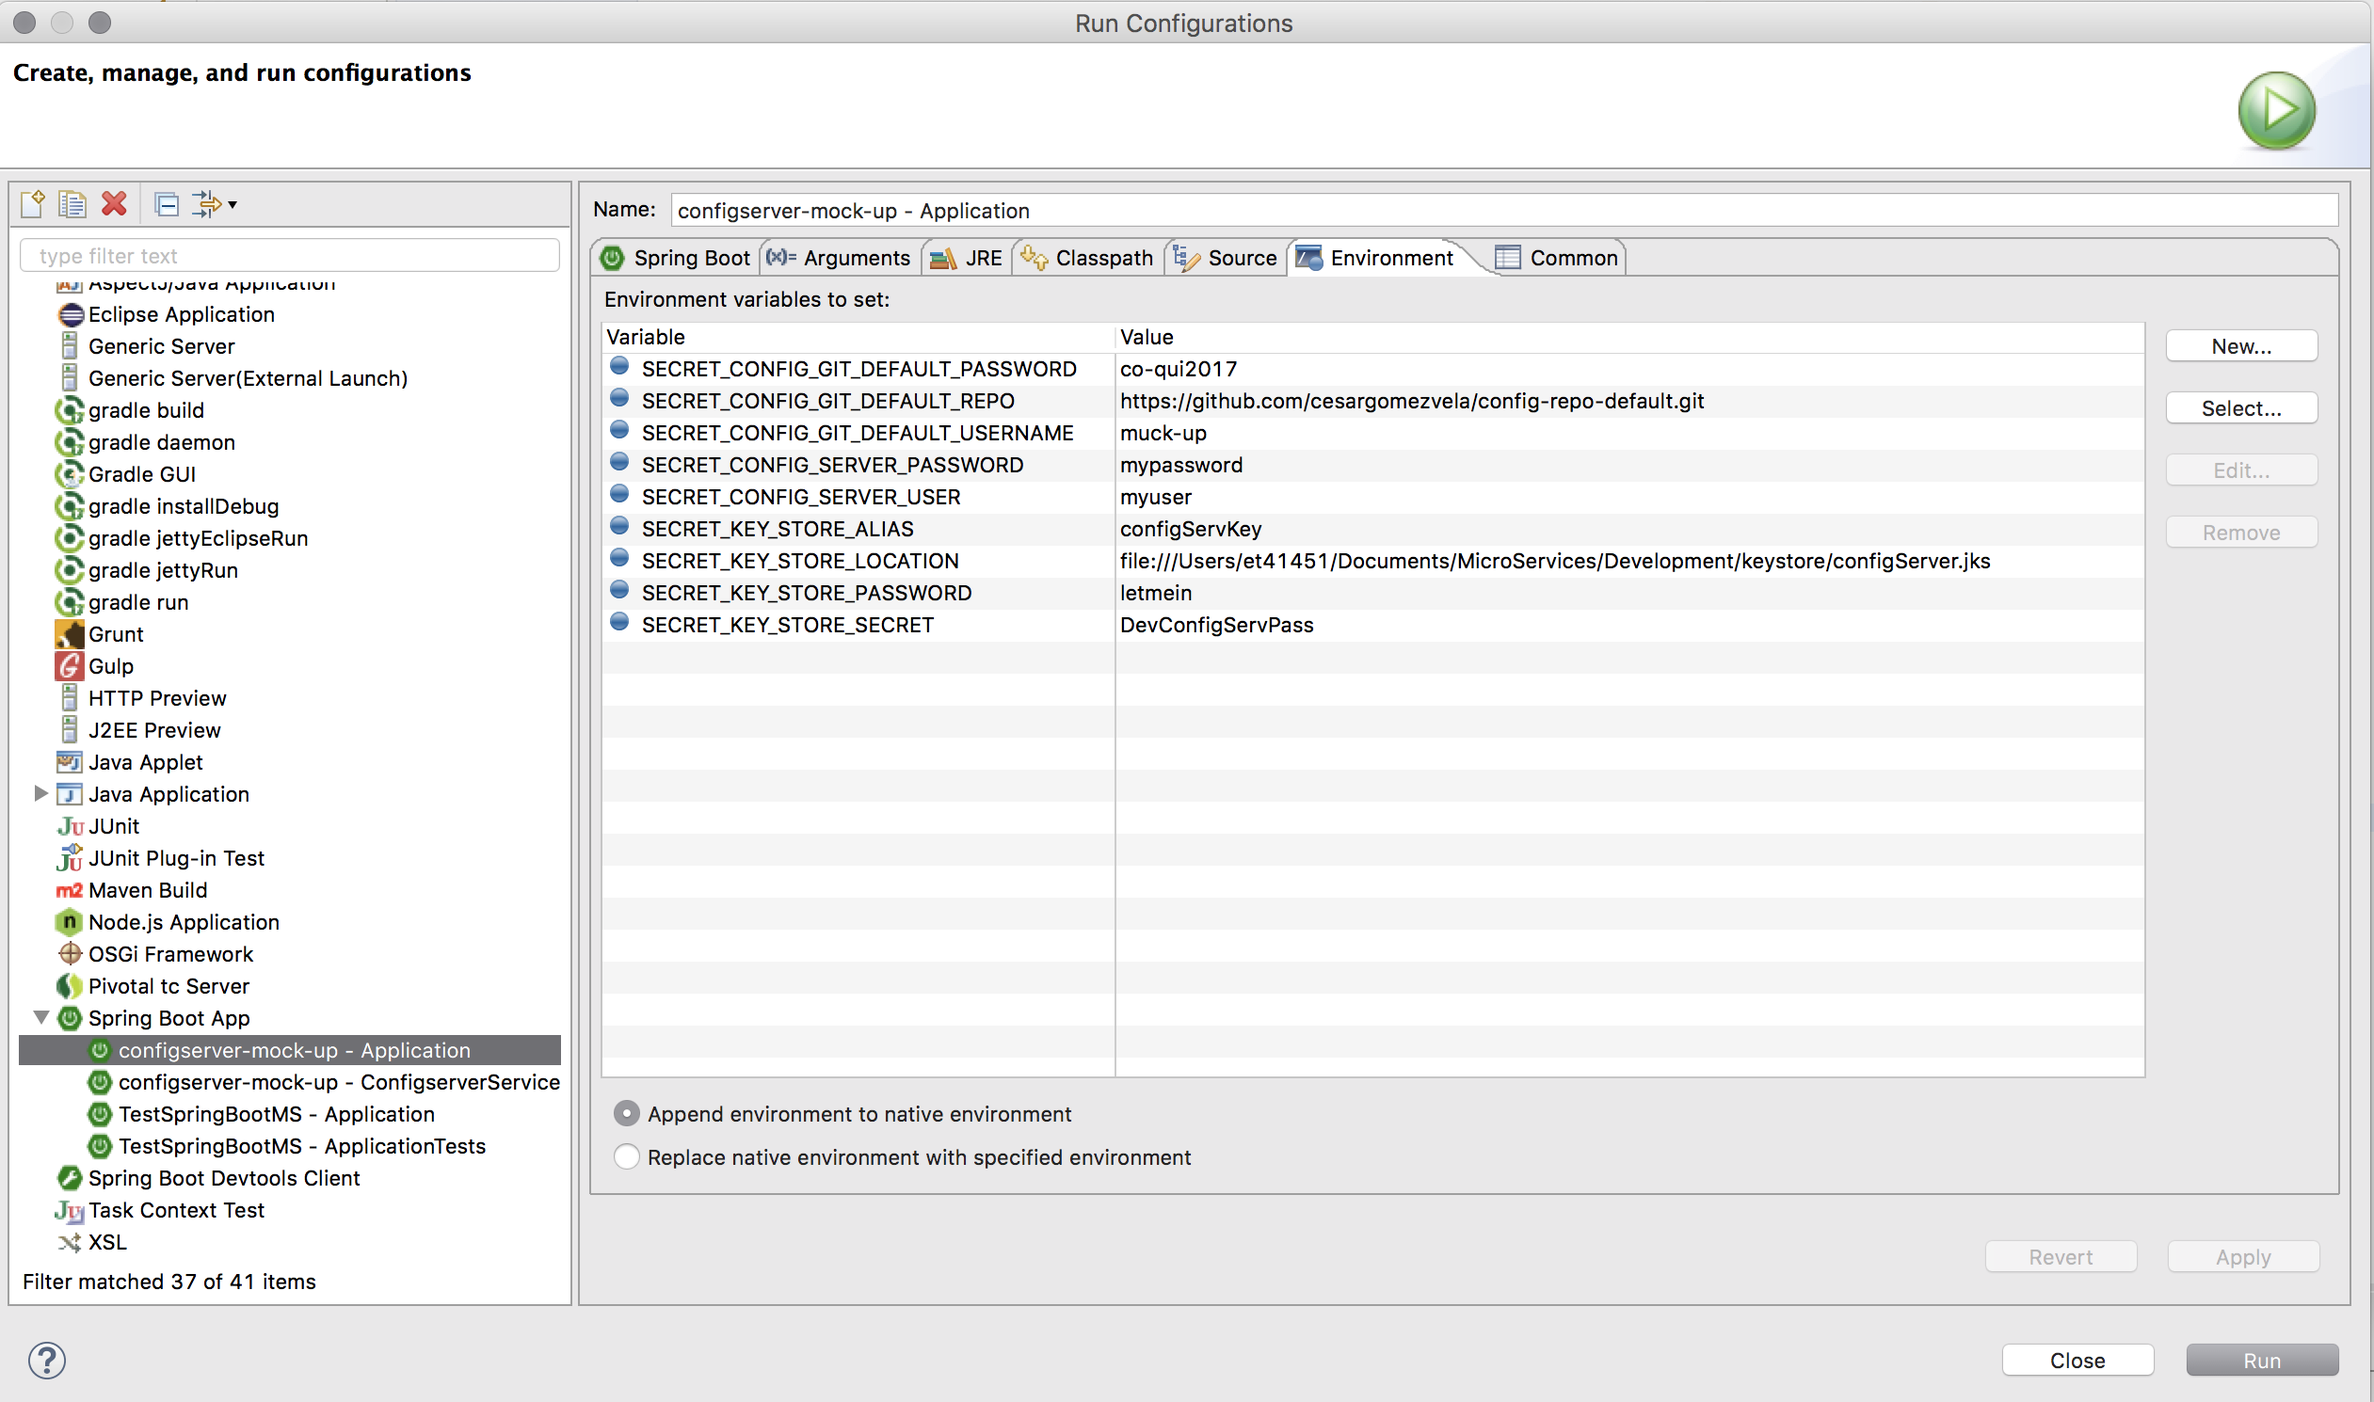
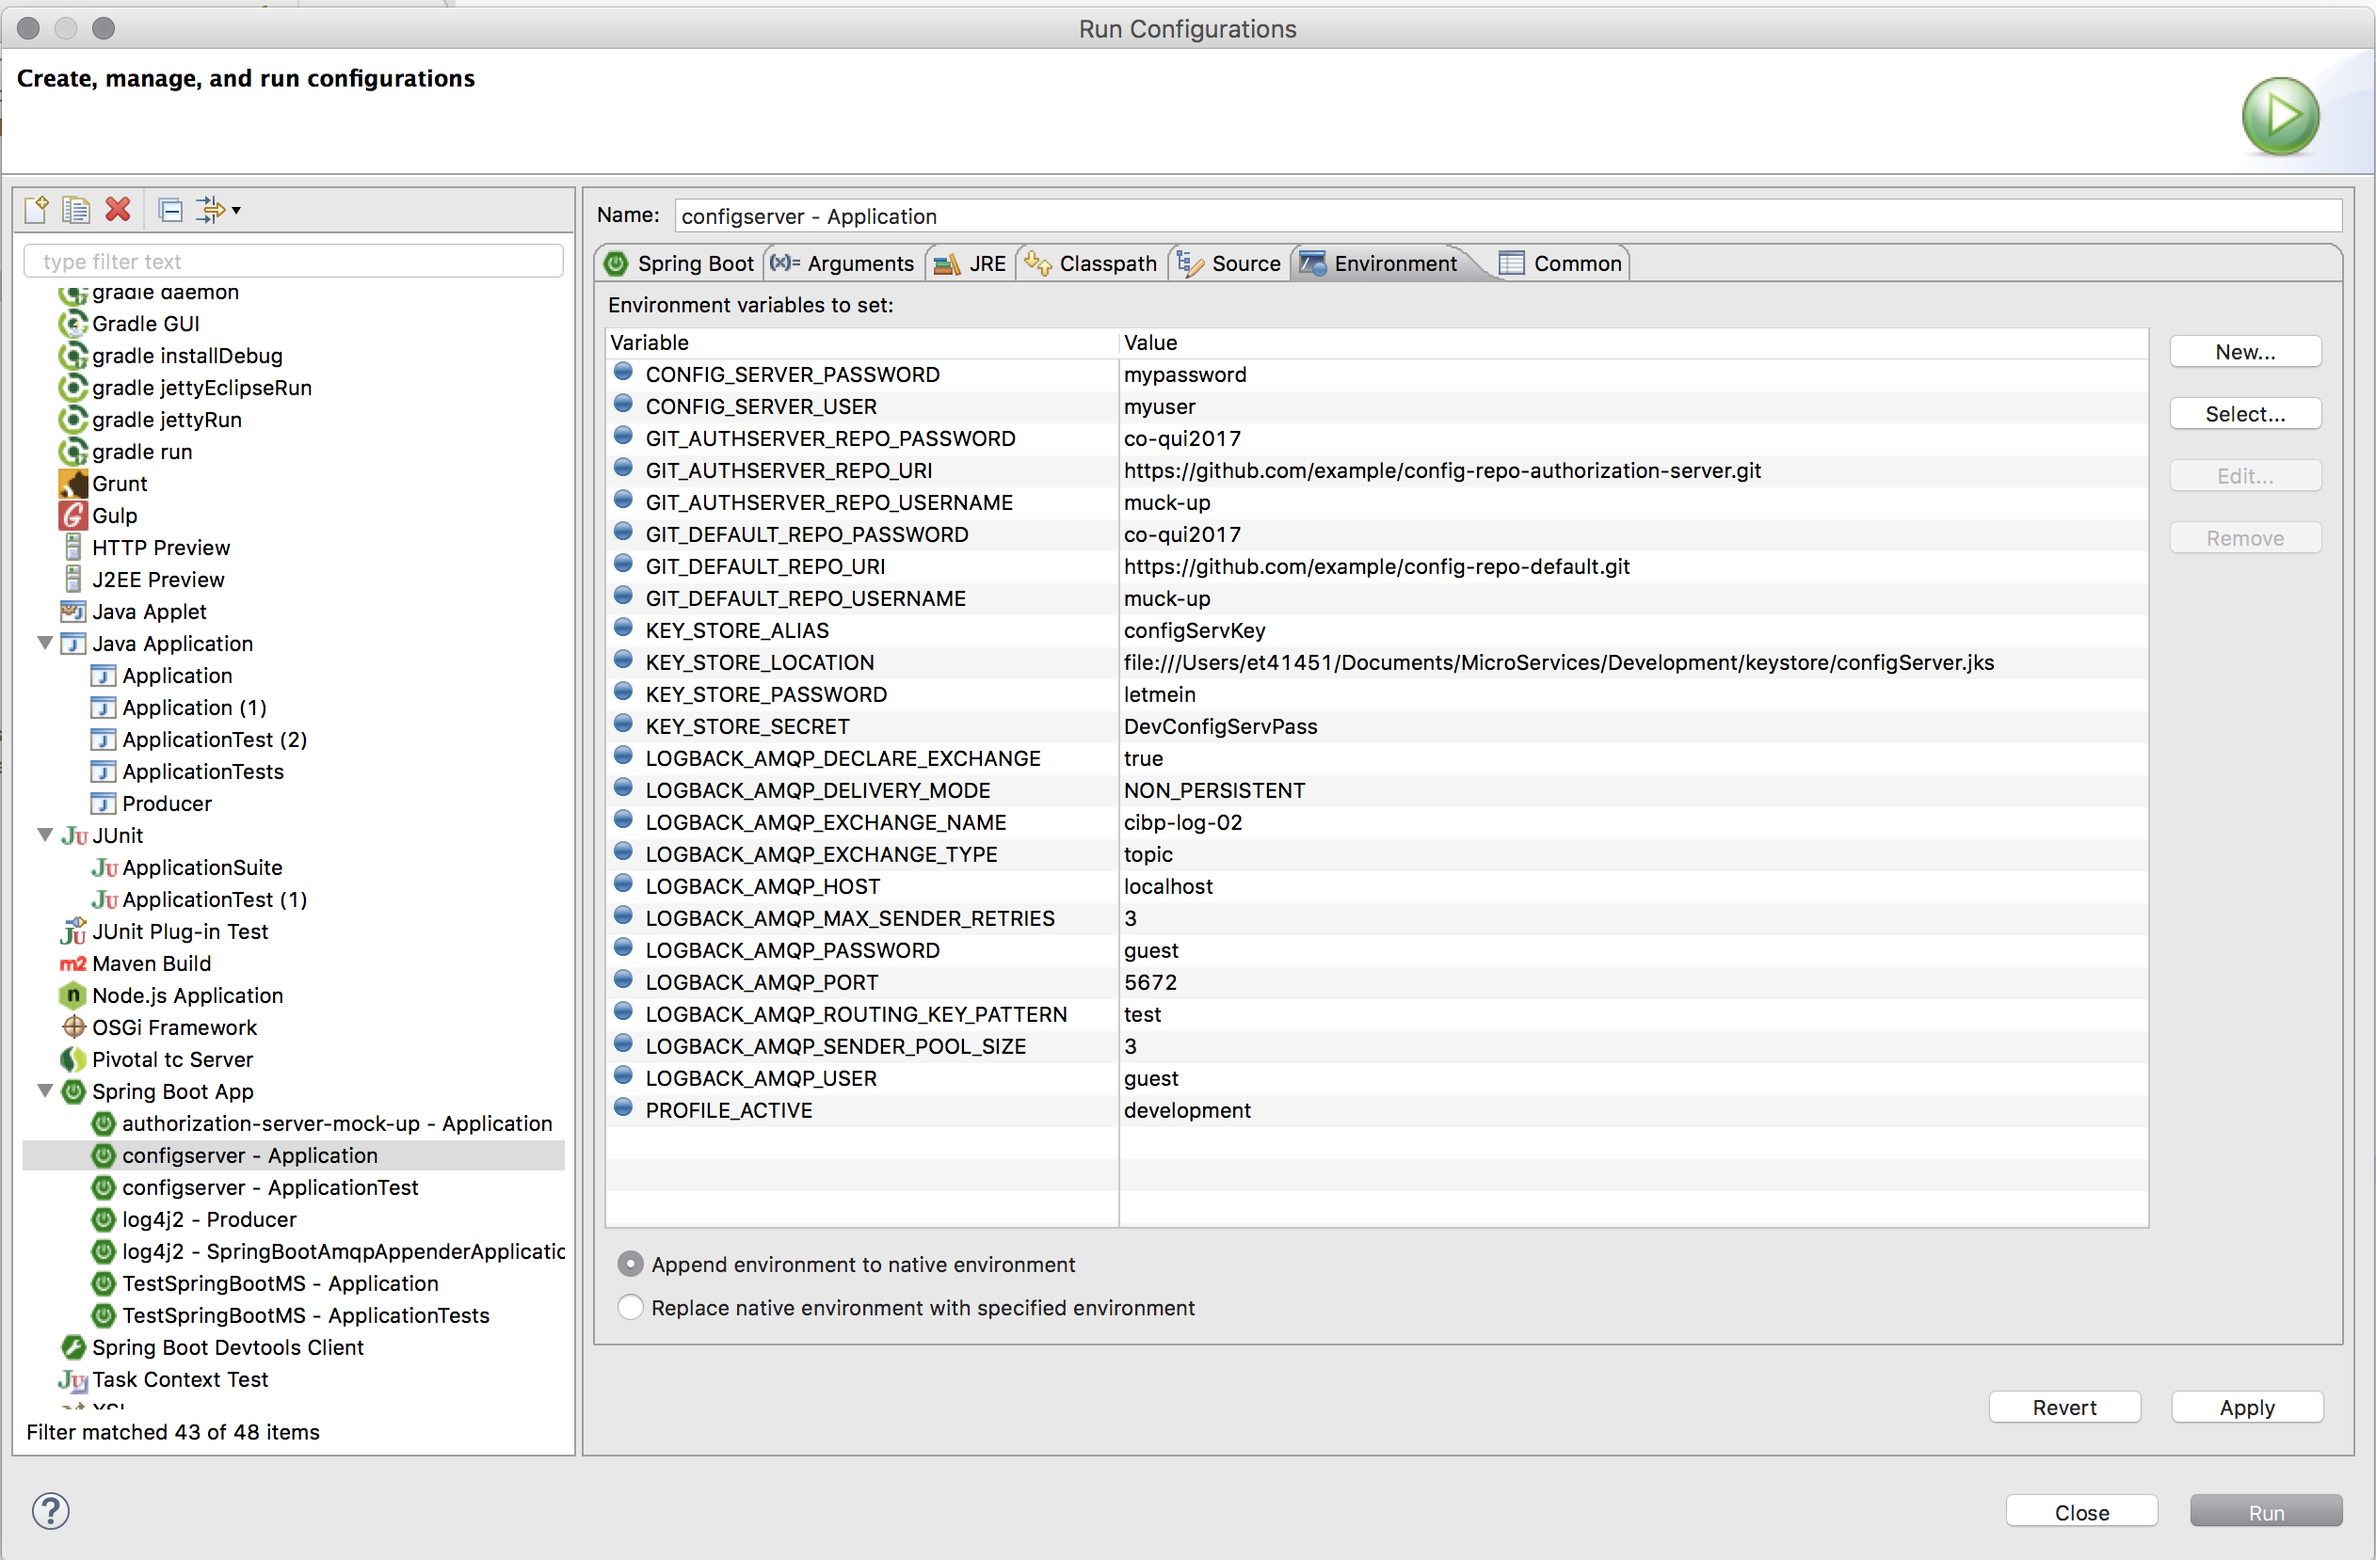
documentation

diff --git a/config-server/README.md b/config-server/README.md
@@ -11,35 +11,66 @@ The server is a Spring Boot application so you can run it from your Console or I
 
 It is important to notice that the configuration server needs some environment variables (can be more or less in the future. Each repository configured needs its own environment variables). 
 
+* Current environment
+  * PROFILE_ACTIVE (it indicates where is the application running. i.e. development, QA, certification, production, etc.)
 * Basic autentication
-  * SECRET_CONFIG_SERVER_USER
-  * SECRET_CONFIG_SERVER_PASSWORD
+  * CONFIG_SERVER_USER
+  * CONFIG_SERVER_PASSWORD
 * Encrypt key-store (It permits the encryption and decryption of sensitive information in the Git repository.)
-  * SECRET_KEY_STORE_LOCATION (the path where the Java Key Store is located) 
-  * SECRET_KEY_STORE_PASSWORD (the password of the key store)
-  * SECRET_KEY_STORE_ALIAS (the alias of the key store)
-  * SECRET_KEY_STORE_SECRET (the secret of the key store)
-* Server GIT
-  * SECRET_CONFIG_GIT_DEFAULT_REPO (It is required to have one default repository)
-  * SECRET_CONFIG_GIT_DEFAULT_USERNAME
-  * SECRET_CONFIG_GIT_DEFAULT_PASSWORD
+  * KEY_STORE_LOCATION (the path where the Java Key Store is located) 
+  * KEY_STORE_PASSWORD (the password of the key store)
+  * KEY_STORE_ALIAS (the alias of the key store)
+  * KEY_STORE_SECRET (the secret of the key store)
+* Default git server
+  * GIT_DEFAULT_REPO_URI (It is required to have one default repository)
+  * GIT_DEFAULT_REPO_USERNAME
+  * GIT_DEFAULT_REPO_PASSWORD
+* authorization-server repository (as an example, because each microservice needs its own repository)
+  * GIT_AUTHSERVER_REPO_URI
+  * GIT_AUTHSERVER_REPO_USERNAME
+  * GIT_AUTHSERVER_REPO_PASSWORD
+* logback environment variables to report to splunk (go to centralized log section for more information)
+  * LOGBACK_AMQP_DELIVERY_MODE
+  * LOGBACK_AMQP_EXCHANGE_NAME
+  * DLOGBACK_AMQP_EXCHANGE_TYPE
+  * DLOGBACK_AMQP_HOST
+  * DLOGBACK_AMQP_MAX_SENDER_RETRIES
+  * DLOGBACK_AMQP_PASSWORD
+  * DLOGBACK_AMQP_PORT
+  * DLOGBACK_AMQP_SENDER_POOL_SIZE
+  * DLOGBACK_AMQP_USER
+  * DLOGBACK_AMQP_DECLARE_EXCHANGE
+  * DLOGBACK_AMQP_ROUTING_KEY_PATTERN
+  
+> Additionally, if you want to configure NewRelic, You need to add more environment variables. Go to NewRelic section for more information 
 
 **Run in console:**
 ```SHELL
-java -jar -DCONFIG_SERVER_USER=myuser \
--DCONFIG_SERVER_PASSWORD=mypassword \
--DKEY_STORE_LOCATION=file:///keystore/configServer.jks \
--DKEY_STORE_PASSWORD=letmein \
--DKEY_STORE_ALIAS=configServKey \
--DKEY_STORE_SECRET=DevConfigServPass \
--DGIT_DEFAULT_REPO_URI=https://github.com/cesargomezvela/config-repo-default.git \
--DGIT_DEFAULT_REPO_USERNAME=muck-up \
+java -jar -DCONFIG_SERVER_PASSWORD=mypassword \
+-DCONFIG_SERVER_USER=myuser \
 -DGIT_DEFAULT_REPO_PASSWORD=co-qui2017 \
--Dnewrelic.config.file=/Users/et41451/Development/code/sts-workspace_maqueta/new-architecture-mock-up/config-server/src/main/newrelic/example_newrelic.yml \
--Dnewrelic.environment=development \
--Dnewrelic.logfile=/Users/et41451/Development/code/sts-workspace_maqueta/new-architecture-mock-up/config-server/src/main/newrelic/logs/newrelic_config_agent.log \
--javaagent:/Users/et41451/Development/code/sts-workspace_maqueta/new-architecture-mock-up/config-server/src/main/newrelic/newrelic-java-3.27.0/newrelic.jar \
-configserver-mock-up-0.1.0-SNAPSHOT.jar
+-DGIT_DEFAULT_REPO_URI=https://github.com/example/config-repo-default.git \
+-DGIT_DEFAULT_REPO_USERNAME=muck-up \
+-DGIT_AUTHSERVER_REPO_URI=https://github.com/example/config-repo-authorization-server.git \
+-DGIT_AUTHSERVER_REPO_USERNAME=muck-up \
+-DGIT_AUTHSERVER_REPO_PASSWORD=co-qui2017 \
+-DKEY_STORE_ALIAS=configServKey \
+-DKEY_STORE_LOCATION=file:///Users/et41451/Documents/MicroServices/Development/keystore/configServer.jks \
+-DKEY_STORE_PASSWORD=letmein \
+-DKEY_STORE_SECRET=DevConfigServPass \
+-DLOGBACK_AMQP_DELIVERY_MODE=NON_PERSISTENT \
+-DLOGBACK_AMQP_EXCHANGE_NAME=cibp-log-02 \
+-DLOGBACK_AMQP_EXCHANGE_TYPE=topic \
+-DLOGBACK_AMQP_HOST=localhost \
+-DLOGBACK_AMQP_MAX_SENDER_RETRIES=3 \
+-DLOGBACK_AMQP_PASSWORD=guest \
+-DLOGBACK_AMQP_PORT=5672 \
+-DLOGBACK_AMQP_SENDER_POOL_SIZE=3 \
+-DLOGBACK_AMQP_USER=guest \
+-DLOGBACK_AMQP_DECLARE_EXCHANGE=true \
+-DLOGBACK_AMQP_ROUTING_KEY_PATTERN=test \
+-DPROFILE_ACTIVE=development \
+configserver-0.1.0-SNAPSHOT.jar
 ```
 
 **IDE configuration**
